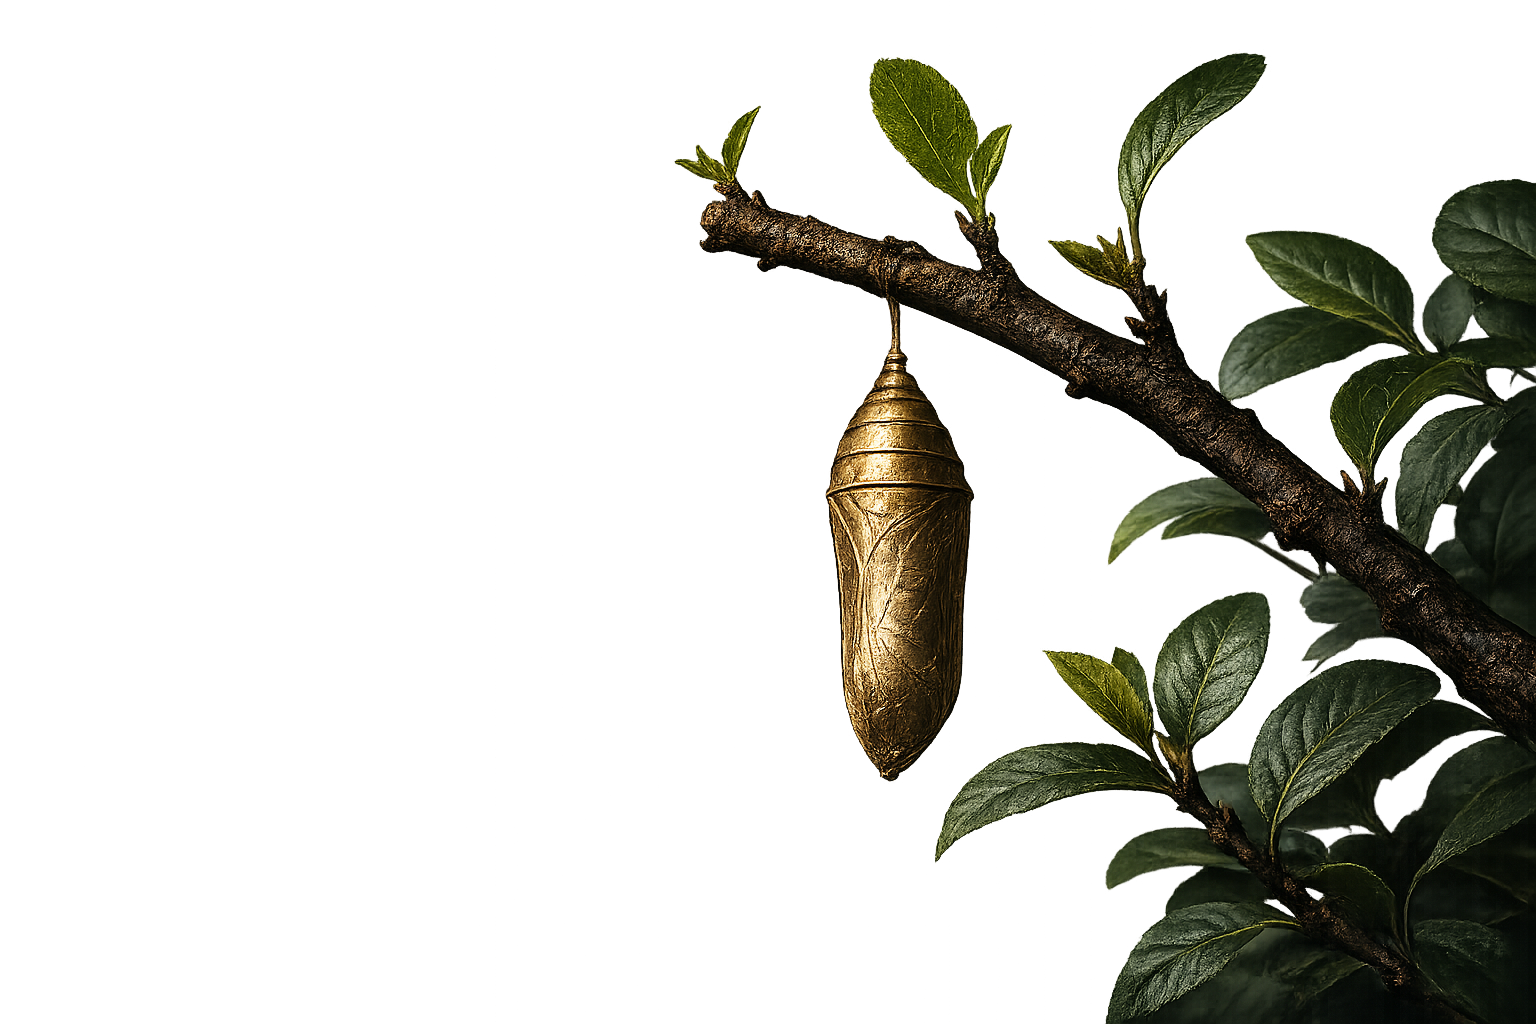
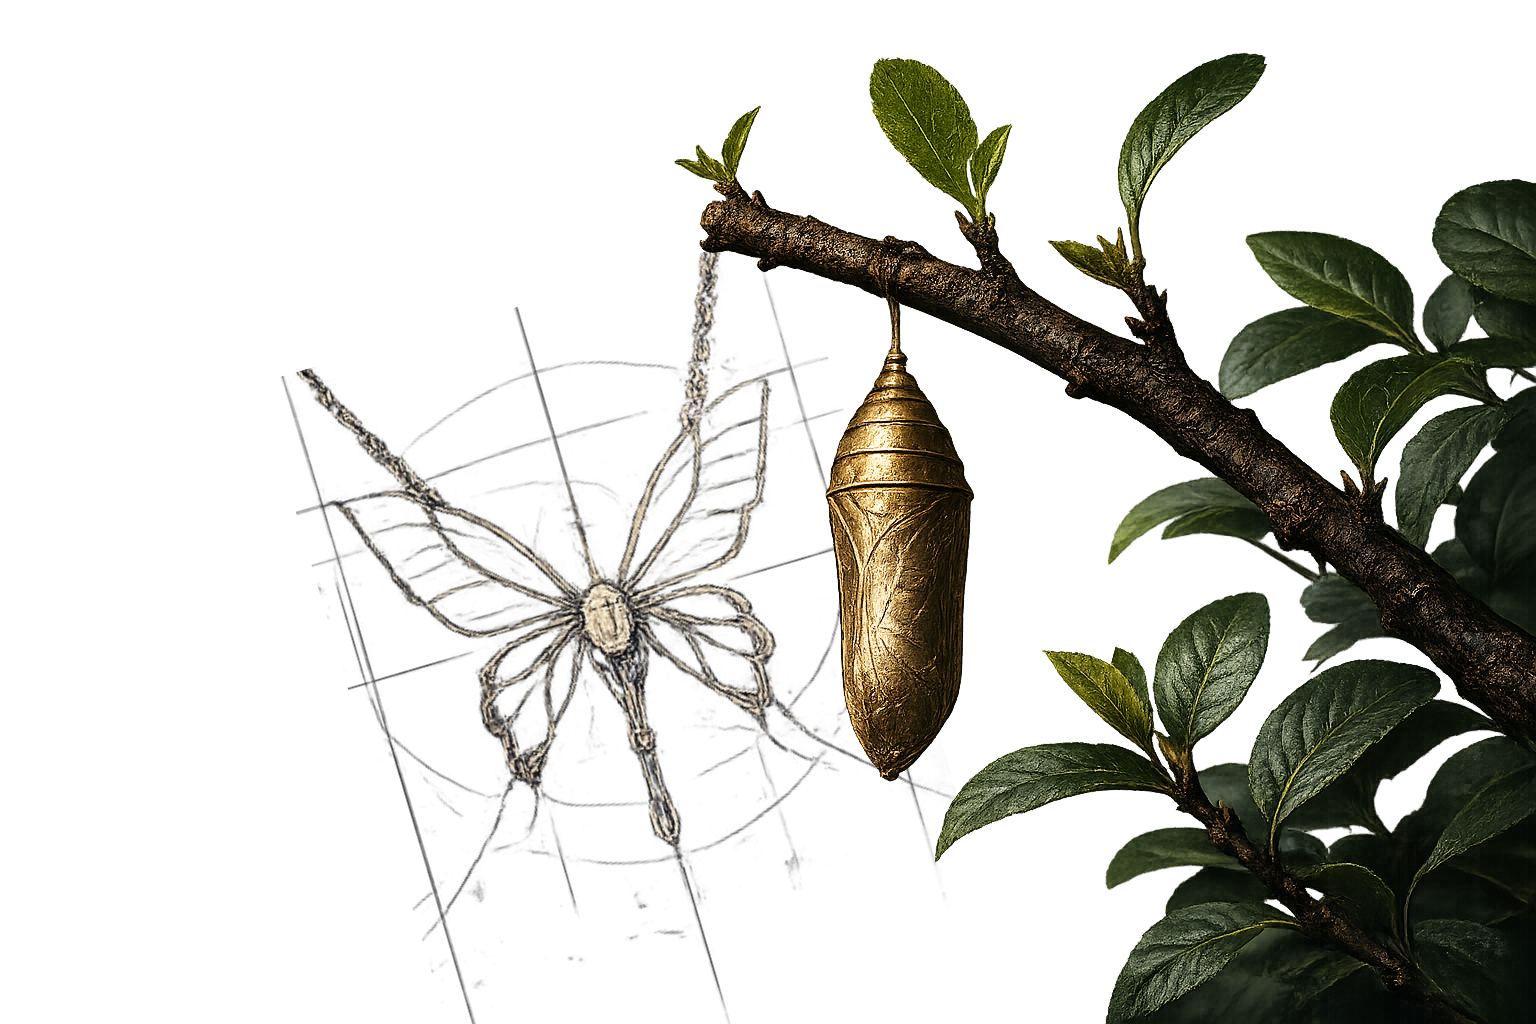
Update butterfly story image with chrysalis and butterfly sketch artwork

diff --git a/src/app/about/story/page.js b/src/app/about/story/page.js
@@ -119,7 +119,7 @@ export default function StoryPage() {
 
                         {/* RIGHT: Cocoon image */}
                         <div className="butterfly-media-col">
-                            <img src="/images/about/story_cocoon1.png" alt="Gold chrysalis on branch — PINTAARA The Butterfly" className="butterfly-cocoon-img" />
+                            <img src="/images/about/story_cocoon.png" alt="Gold chrysalis on branch — PINTAARA The Butterfly" className="butterfly-cocoon-img" />
                         </div>
                     </div>
             </main>
